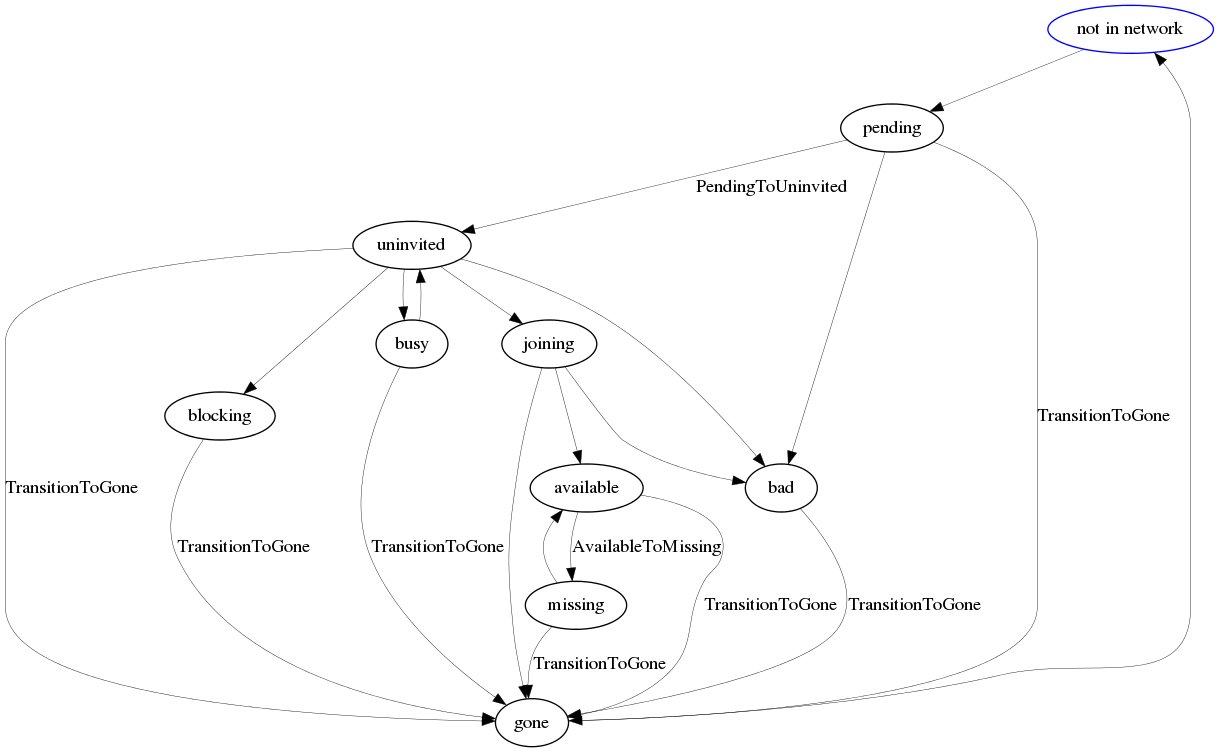
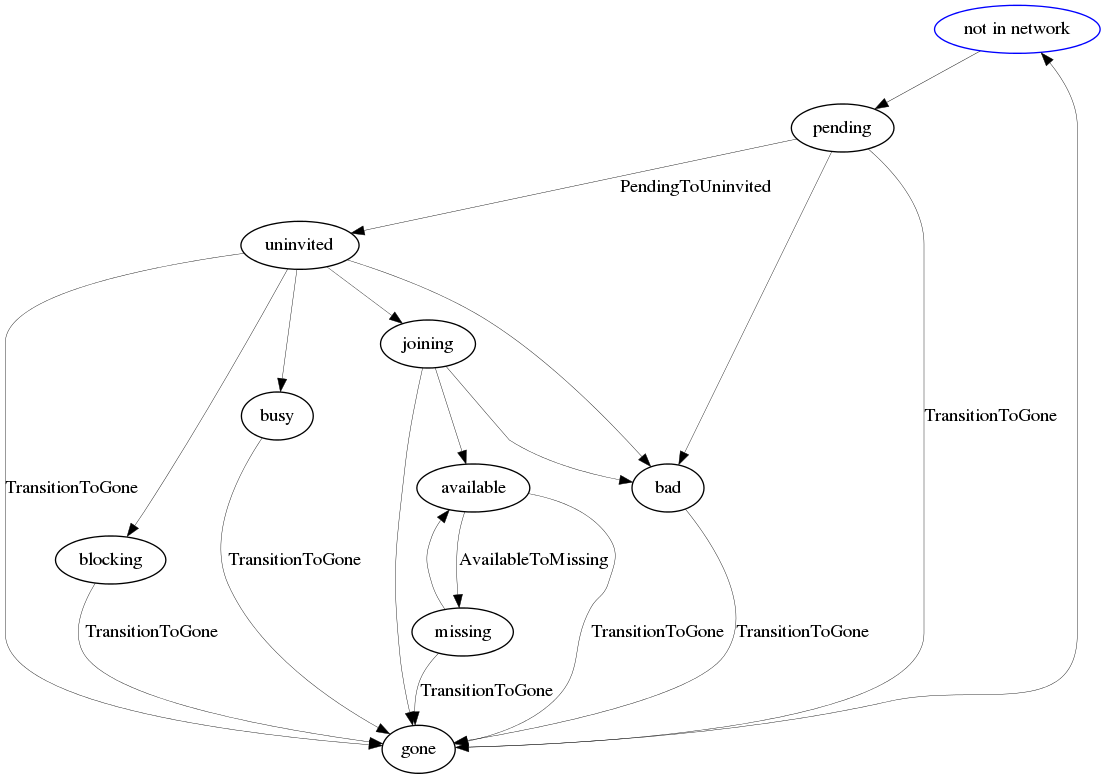
correcting the transition table

diff --git a/concert_conductor/src/concert_conductor/transitions.py b/concert_conductor/src/concert_conductor/transitions.py
@@ -120,7 +120,7 @@ StateTransitionTable = {
     (State.MISSING, State.AVAILABLE)  : Dummy,
     (State.MISSING, State.GONE)       : TransitionToGone,
 
-    (State.BUSY, State.UNINVITED)     : Dummy,
+#    (State.BUSY, State.UNINVITED)     : Dummy,
     (State.BUSY, State.GONE)          : TransitionToGone,
 
     (State.BLOCKING, State.GONE)      : TransitionToGone,
